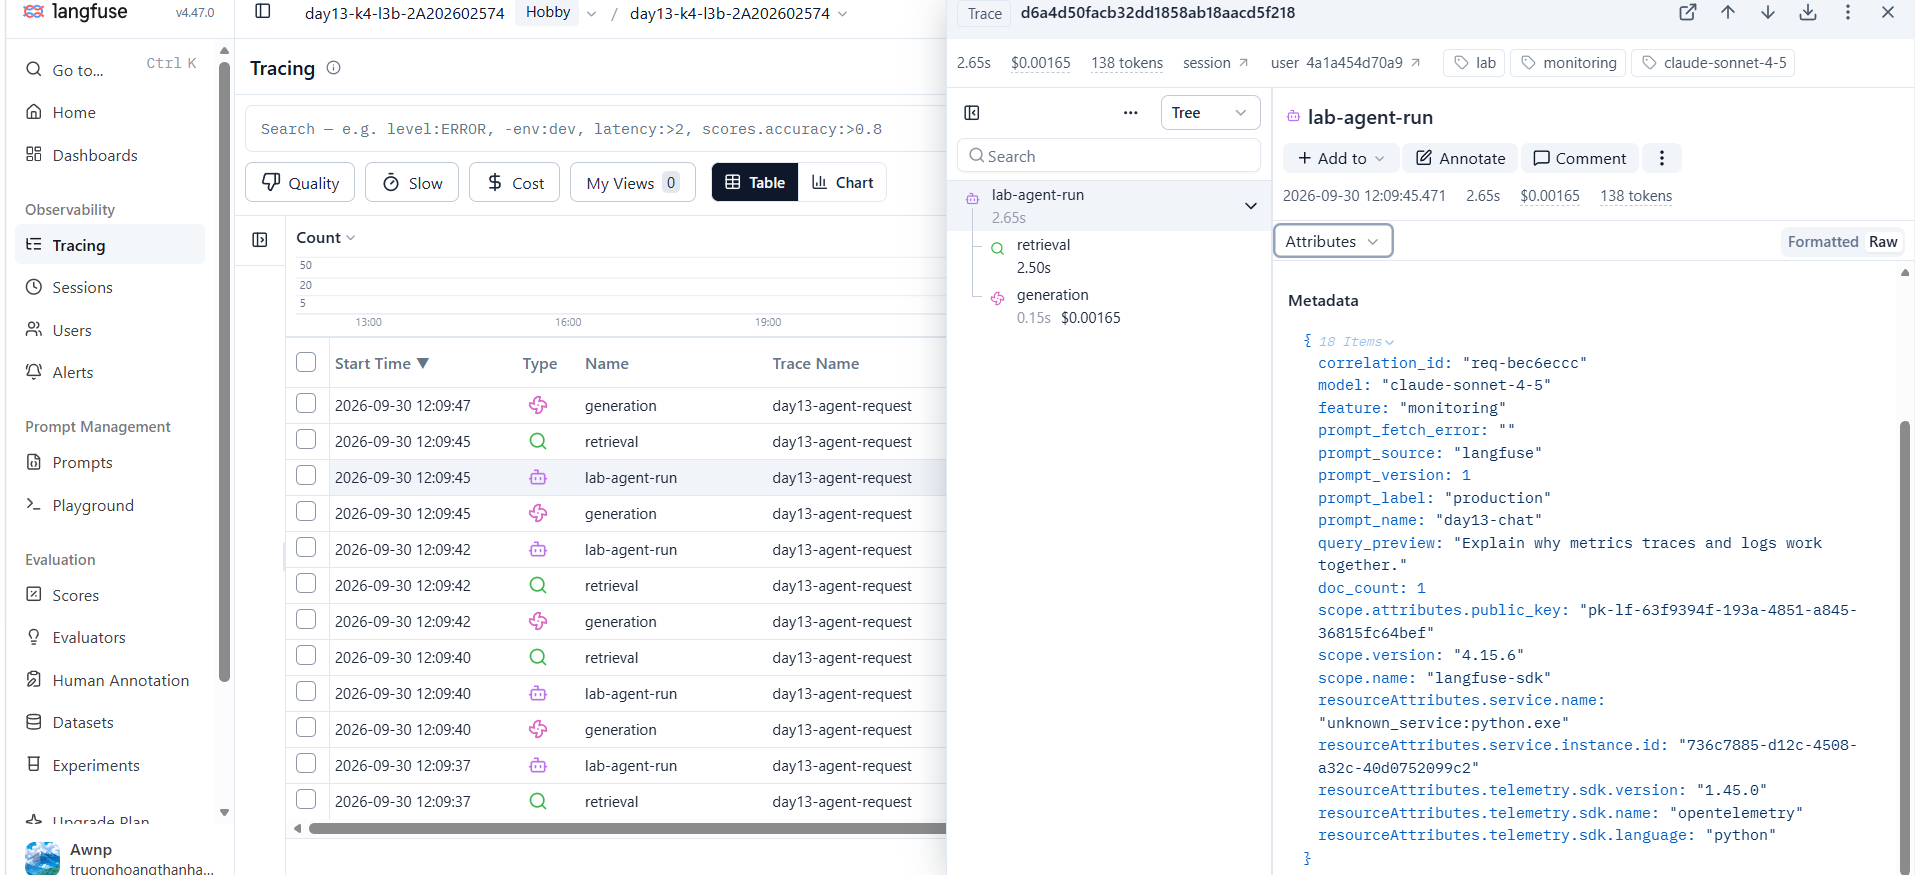
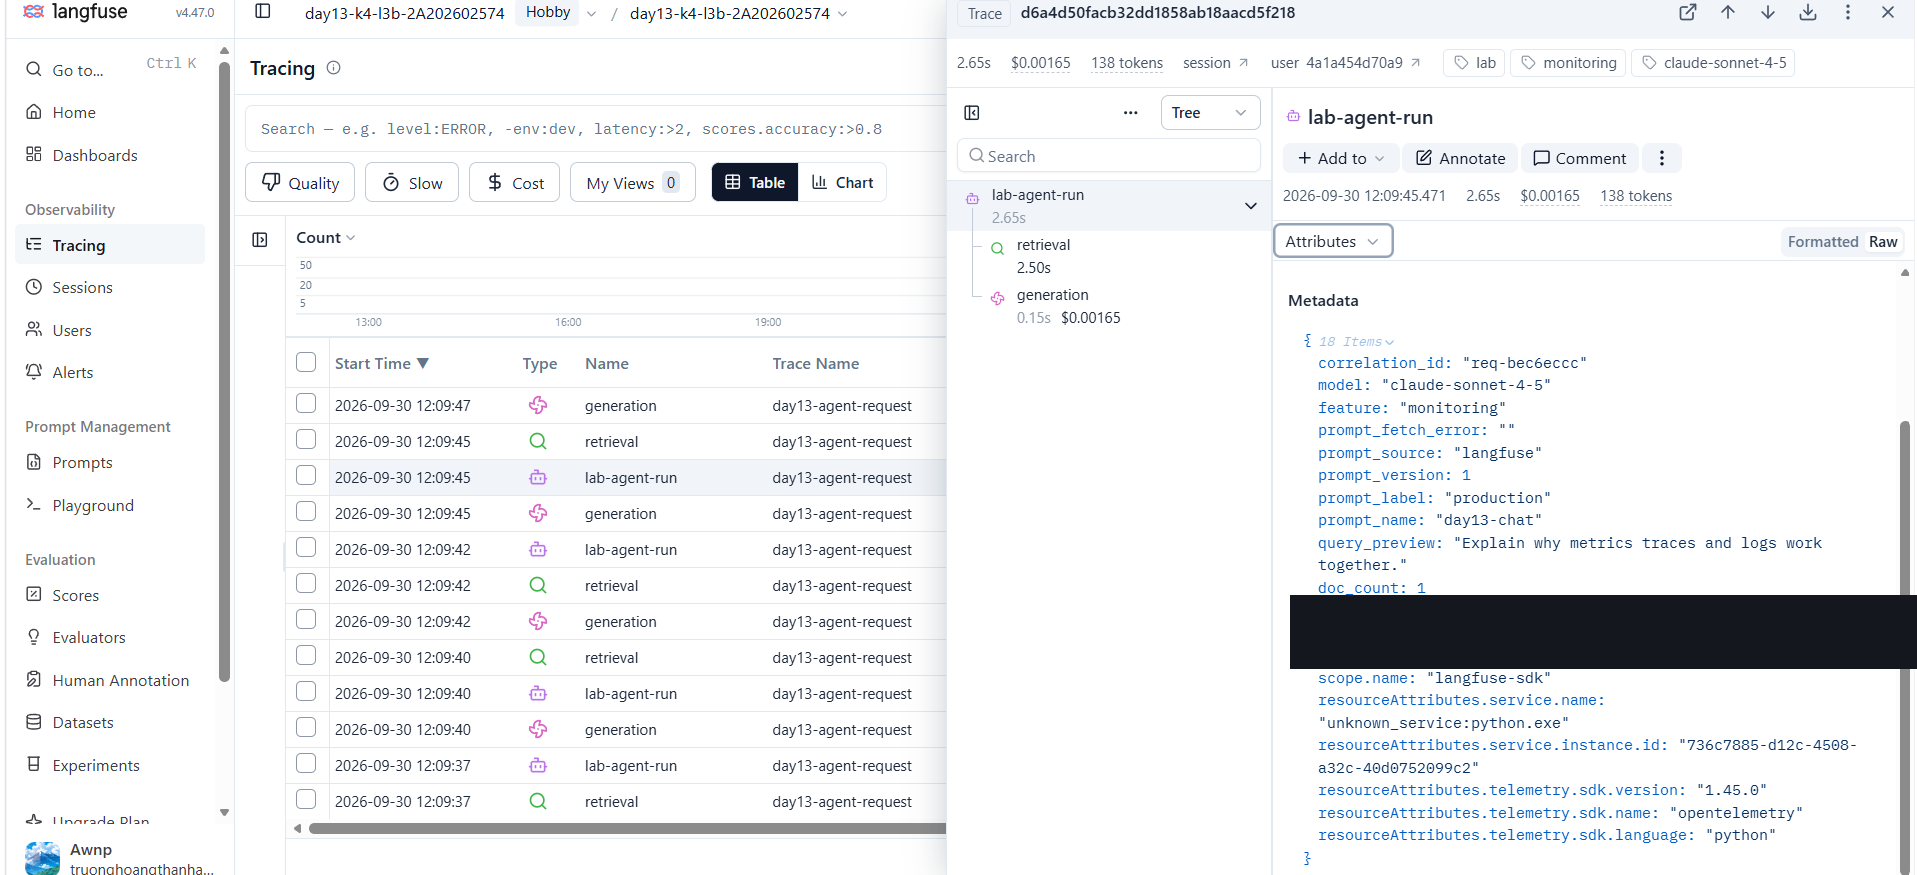
fix: redact Langfuse public key from evidence screenshots, finalize report

Changed region(s): [[0.6463, 0.6789, 1.0, 0.7714]]

diff --git a/submission/REPORT.md b/submission/REPORT.md
@@ -8,7 +8,7 @@
 - **MSSV:** 2A202602574
 - **Lớp:** K4-L3B
 - **Repository URL:** https://github.com/awnpvng/K4-L3-DAY13-TruongHoangThanhAn-2A202602574-Monitoring-LLMOps
-- **Commit SHA cuối:** 61a34f8 (HEAD -> main, origin/main, origin/HEAD) docs: avoid leaking challenge hints
+- **Commit SHA cuối:** 0ae2443 (HEAD -> main, origin/main, origin/HEAD) final
 - **Challenge ID:** day13-k4-l3b-monitoring-llmops-v1
 - **Tên project Langfuse cá nhân:** `day13-k4-l3b-2A202602574`
 
